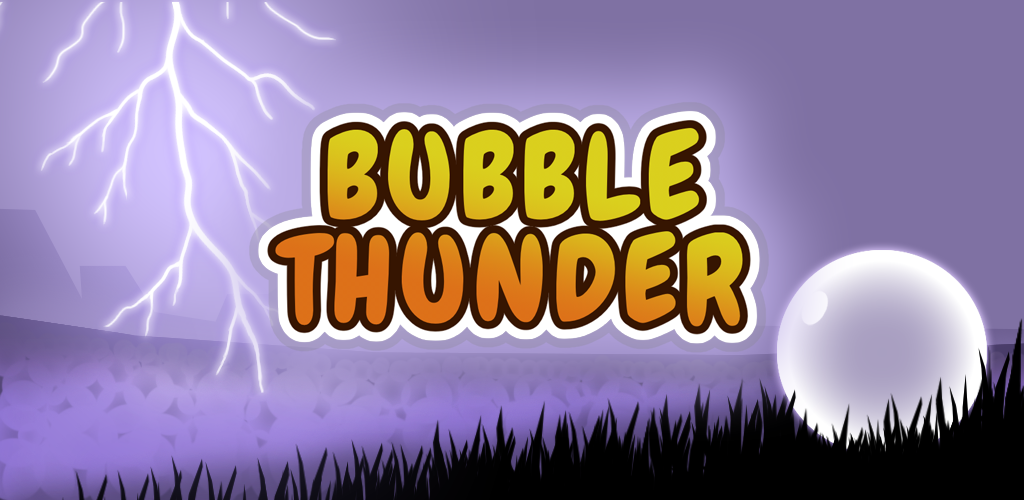
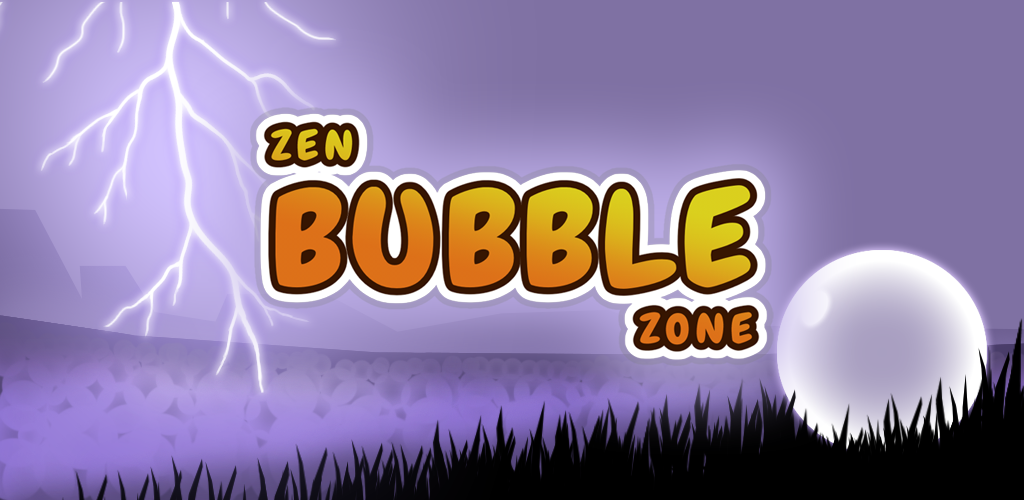
change app name

Changed region(s): [[0.2188, 0.15, 0.75, 0.78], [0.7188, 0.78, 0.75, 0.81], [0.6562, 0.78, 0.6875, 0.81]]

diff --git a/index.html b/index.html
@@ -24,11 +24,11 @@
                 <div class="list-container">
                     <img class="list-icon" src="/src/img/appicon-bubble-thunder.png" />
                     <div class="list-description">
-                        <div class="f2">Bubble Thunder</div>
+                        <div class="f2">Zen Bubble Zone</div>
                         <div class="list-text f3">Match 3 puzzle game</div>
                         <div>
                             <a class="external-link" href="#">Ios</a>
-                            <a class="external-link" href="#">Android</a>
+                            <a class="external-link" href="https://play.google.com/store/apps/details?id=net.yarvis.bubble">Android</a>
                         </div>
                     </div>
                 </div>

diff --git a/src/css/home.css b/src/css/home.css
@@ -31,7 +31,6 @@ a {
 #outer-wrapper {
     overflow: scroll;
     height: 100vh;
-
 }
 
 #navbar {
